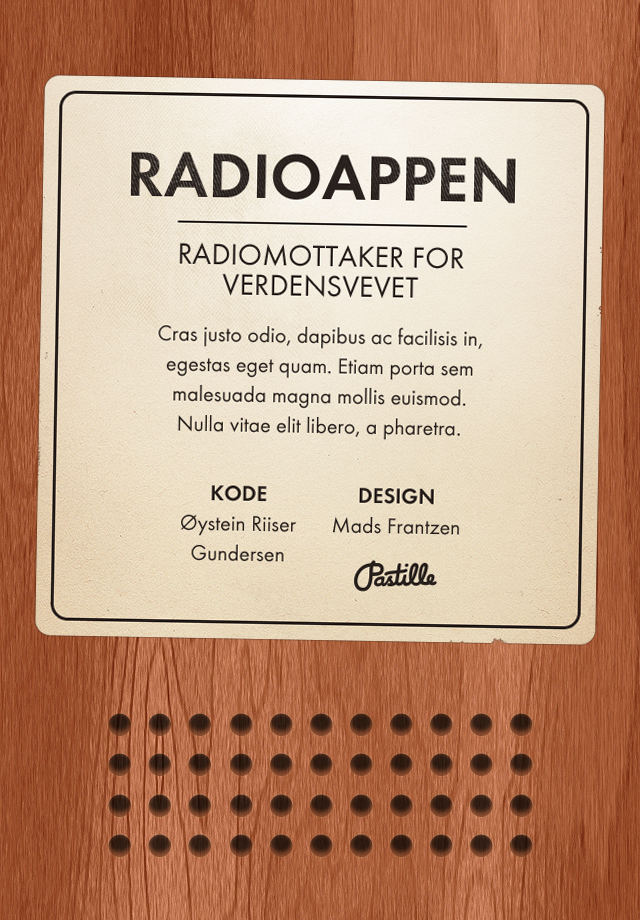
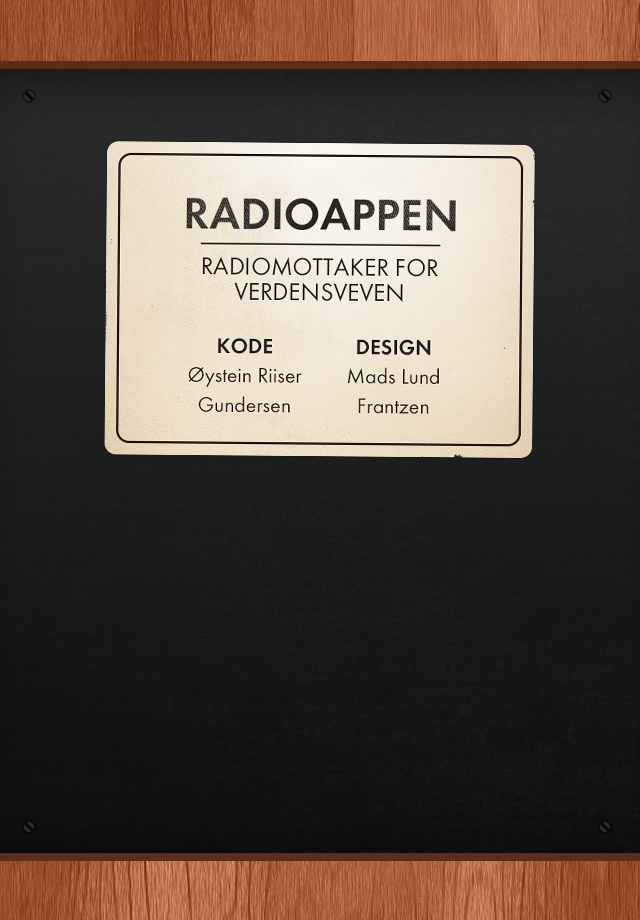
Updated flipside view; visual tweaks.

diff --git a/Radio/Classes/GWRadioStationMetadataCenter.m b/Radio/Classes/GWRadioStationMetadataCenter.m
@@ -9,6 +9,8 @@
 #import "GWRadioStationMetadataCenter.h"
 #import "AFNetworking.h"
 
+#define GWDebugRadioMetadata
+
 #ifdef GWDebugRadioMetadata
     #define GWDebugMetadata GWLog
 #else
@@ -20,7 +22,8 @@ static GWRadioStationMetadataCenter *sharedMetadataCenter;
 @interface GWRadioStationMetadataCenter() 
 @property (nonatomic, retain) NSTimer *pollTimer;
 @property (nonatomic, retain) GWRadioStation *currentStation;
-@property (nonatomic, retain) NSDictionary *currentMetadata;
+@property (nonatomic, copy) NSDictionary *currentMetadata;
+@property (nonatomic, copy) NSDateFormatter *dateFormatter;
 - (void)gatherMetadata;
 - (void)parseMetadata:(NSDictionary *)metadata;
 @end
@@ -31,6 +34,10 @@ static GWRadioStationMetadataCenter *sharedMetadataCenter;
 @synthesize pollTimer = _pollTimer;
 @synthesize currentStation = _currentStation;
 @synthesize currentMetadata = _currentMetadata;
+@synthesize dateFormatter = _dateFormatter;
+
+#define GWNRKTimeZoneAbbreviation   @"CET"
+#define GWNRKDateFormatString       @"yyyy-MM-dd'T'HH:mm:ss"
 
 + (GWRadioStationMetadataCenter *)sharedCenter {
     static BOOL initialized = NO;
@@ -39,6 +46,16 @@ static GWRadioStationMetadataCenter *sharedMetadataCenter;
         sharedMetadataCenter = [[GWRadioStationMetadataCenter alloc] init];
     }
     return sharedMetadataCenter;
+}
+
+- (id)init {
+    if (self = [super init]) {
+        [self setDateFormatter:[[NSDateFormatter alloc] init]];
+        
+        [[self dateFormatter] setTimeZone:[NSTimeZone timeZoneWithAbbreviation:GWNRKTimeZoneAbbreviation]];
+        [[self dateFormatter] setDateFormat:GWNRKDateFormatString];
+    }
+    return self;
 }
 
 - (void)startGatheringMetadataForStation:(GWRadioStation *)station {
@@ -89,6 +106,15 @@ static GWRadioStationMetadataCenter *sharedMetadataCenter;
     [[self pollTimer] invalidate];
 }
 
+- (NSDate *)dateFromString:(NSString *)string {
+    if (string == nil)
+        return nil;
+        
+    return [[self dateFormatter] dateFromString:string];
+    
+    return nil;
+}
+
 - (void)parseMetadata:(NSDictionary *)data {
     
     NSMutableDictionary *metadata = [[NSMutableDictionary alloc] init];
@@ -98,6 +124,10 @@ static GWRadioStationMetadataCenter *sharedMetadataCenter;
     NSString *showName = [program objectForKey:@"title"];
     if (showName != nil)
         [metadata setObject:showName forKey:@"currentShowName"];
+    
+    NSString *showStartDateString = [data objectForKey:@"date"];
+    if (showStartDateString != nil)
+        [metadata setObject:[self dateFromString:showStartDateString] forKey:@"currentShowStartTime"];    
     
     NSArray *elements = [program objectForKey:@"elements"];
     if ([elements count]) {
@@ -129,6 +159,10 @@ static GWRadioStationMetadataCenter *sharedMetadataCenter;
             } else if ([[element objectForKey:@"runorder"] isEqualToString:@"nextprogram"]) {
                 NSDictionary *nextProgram = [element objectForKey:@"program"];
                 [metadata setObject:[nextProgram objectForKey:@"title"] forKey:@"nextShowName"];
+                
+                NSString *nextShowStartDateString = [element objectForKey:@"date"];
+                if (nextShowStartDateString != nil)
+                    [metadata setObject:[self dateFromString:nextShowStartDateString] forKey:@"nextShowStartTime"];    
             }
             
             

diff --git a/Radio/GWViewController.h b/Radio/GWViewController.h
@@ -9,6 +9,7 @@
 #import <UIKit/UIKit.h>
 #import <MediaPlayer/MediaPlayer.h>
 
+#import "GWGlowingLabel.h"
 #import "GWRadioTuner.h"
 #import "GWTrackView.h"
 #import "GWStationTunerView.h"
@@ -36,7 +37,7 @@ typedef enum GWTunerScrollViewDirection {
 
 @property (weak, nonatomic) IBOutlet UIScrollView *trackScrollView;
 @property (weak, nonatomic) IBOutlet UIPageControl *pageControl;
-@property (weak, nonatomic) IBOutlet UILabel *currentShowLabel;
+@property (weak, nonatomic) IBOutlet GWGlowingLabel *currentShowLabel;
 @property (weak, nonatomic) IBOutlet UILabel *nextShowLabel;
 @property (weak, nonatomic) IBOutlet GWTrackView *currentTrackView;
 @property (weak, nonatomic) IBOutlet GWTrackView *lastTrackView;

diff --git a/Radio/Classes/GWRadioStationMetadataCenter.h b/Radio/Classes/GWRadioStationMetadataCenter.h
@@ -11,11 +11,17 @@
 
 #define GWRadioStationMetadataDidChangeNotification @"GWRadioStationMetadataDidChangeNotification"
 
+#define GWMetadataPropertyCurrentShow           @"currentShowName"
+#define GWMetadataPropertyCurrentShowStartTime  @"currentShowStartTime"
+#define GWMetadataPropertyNextShow              @"nextShowName"
+#define GWMetadataPropertyNextShowStartTime  @"nextShowStartTime"
+
 @interface GWRadioStationMetadataCenter : NSObject {
     NSURL *_metadataURL;
     NSTimer *_pollTimer;
     GWRadioStation *_currentStation;
     NSDictionary *_currentMetadata;
+    NSDateFormatter *_dateFormatter;
 }
 
 @property (nonatomic, copy) NSURL *metadataURL;

diff --git a/Radio/GWViewController.m b/Radio/GWViewController.m
@@ -390,8 +390,13 @@
     
     [self setStations:[GWRadioStation loadRadioStations]];    
     [[[self lastTrackView] label] setText:@"FORRIGE LÅT"];
+    [[[self lastTrackView] label] setShouldGlow:YES];
     [[[self currentTrackView] label] setText:@"SPILLES NÅ"];
+    [[[self currentTrackView] label] setShouldGlow:YES];
     [[[self nextTrackView] label] setText:@"NESTE LÅT"];
+    [[[self nextTrackView] label] setShouldGlow:YES];
+    
+    //[[self currentShowLabel] setShouldGlow:YES];
     
     [self setTuner:[[GWRadioTuner alloc] initWithStations:[self stations]]];
     [self layoutTunerView];

diff --git a/Radio/Classes/GWTrackView.h b/Radio/Classes/GWTrackView.h
@@ -8,12 +8,14 @@
 
 #import <UIKit/UIKit.h>
 
+#import "GWGlowingLabel.h"
+
 @interface GWTrackView : UIView
 
 @property (weak, nonatomic) IBOutlet UIImageView *coverArtView;
 @property (weak, nonatomic) IBOutlet UILabel *trackLabel;
 @property (weak, nonatomic) IBOutlet UILabel *artistLabel;
-@property (weak, nonatomic) IBOutlet UILabel *label;
+@property (weak, nonatomic) IBOutlet GWGlowingLabel *label;
 @property (weak, nonatomic) IBOutlet UIButton *spotifyButton;
 
 

diff --git a/Radio/Classes/GWGlowingLabel.m b/Radio/Classes/GWGlowingLabel.m
@@ -27,7 +27,7 @@
     
     CGColorSpaceRef myColorSpace = CGColorSpaceCreateDeviceRGB();
     CGColorRef myColor = CGColorCreate(myColorSpace, myColorValues);
-    CGContextSetShadowWithColor (myContext, myShadowOffset, 5, myColor);
+    CGContextSetShadowWithColor (myContext, myShadowOffset, 10, myColor);
     
     [super drawTextInRect:rect];
     

diff --git a/Radio/Classes/GWRadioTuner.m b/Radio/Classes/GWRadioTuner.m
@@ -63,7 +63,6 @@
                        context:(void*)context {
     
     AVPlayerStatus status = [[change objectForKey:NSKeyValueChangeNewKey] integerValue];
-    NSLog(@"status %d", status);
     switch (status) {
         case AVPlayerStatusUnknown:
             break;
